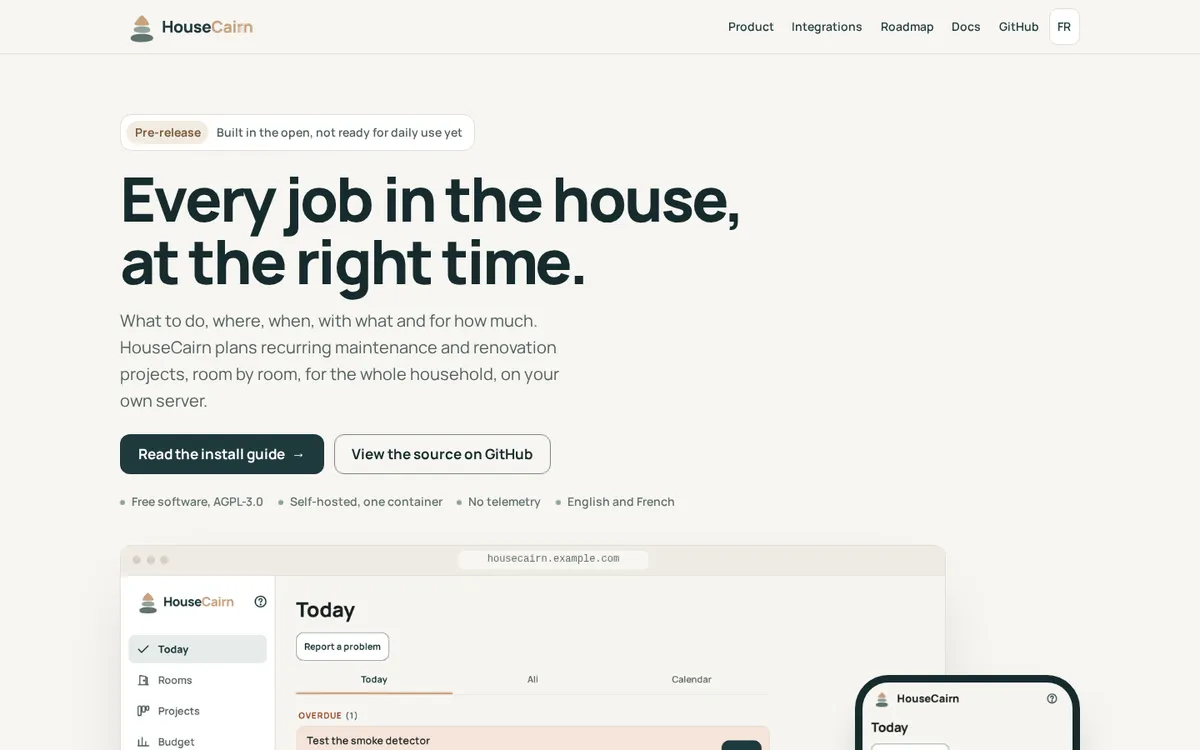
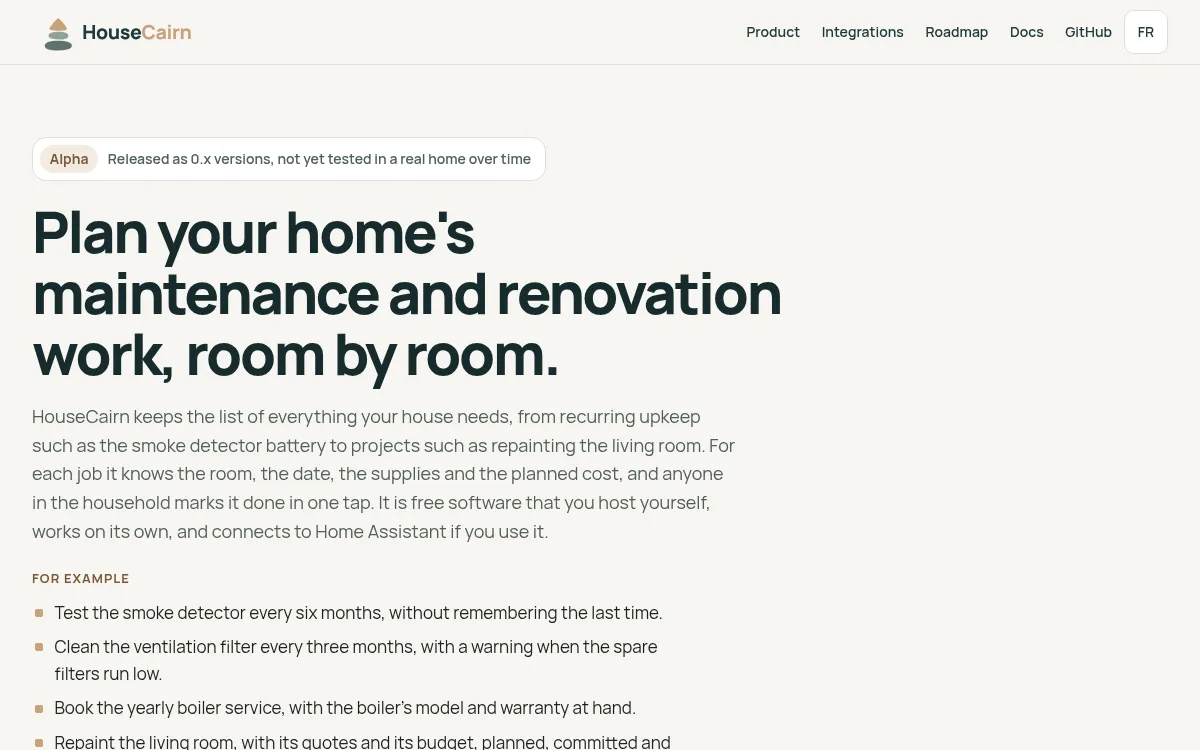
feat: say what HouseCairn is for first, with examples; SEO tags and social images (#15)
## Content

The home page now says what HouseCairn is for before anything technical,
in the words
of the reference message (`docs/developer/message.md` of the
application, proposed in
HouseCairn/housecairn#146):

- **First section**: the H1 is the headline ("Plan your home's
maintenance and
renovation work, room by room." / « Planifiez l'entretien et les travaux
de votre
maison, pièce par pièce. »), the lead is the three-sentence paragraph,
then a "For
example" list of four everyday jobs (smoke detector, ventilation filter,
boiler
service, repainting the living room). The buttons and the key facts
(licence, one
  container) come after. The H1 is smaller so the longer sentence fits.
- **Titles and descriptions**: new title and `meta description` for the
home page,
  in English and French; the five pages keep unique titles.
- **State corrected**: the site said "No version has been released yet"
and "not yet
released" for Home Assistant, while 0.x versions are published. It now
says alpha:
  0.x versions, what is stored can still change, keep a backup.
- **Social cards**: new Open Graph images (1200 x 630) with the
headline, generated
from the logo kit by `scripts/og.mjs`; explicit `twitter:title`,
`description`,
`image` and `image:alt`. `og.mjs` read `@fontsource/manrope`, which is
not a
dependency: it now also takes `OG_FONT_DIR`, a folder of Manrope TTF
files (used
  here: `assets/fonts/` of housecairn-mobile). No dependency added.
[…]

diff --git a/src/i18n/ui.ts b/src/i18n/ui.ts
@@ -45,6 +45,8 @@ export interface Dict {
     statusText: string;
     h1: string;
     lead: string;
+    examplesLabel: string;
+    examples: string[];
     ctaInstall: string;
     ctaSource: string;
     factsLabel: string;
@@ -82,14 +84,21 @@ export const ui: Record<Lang, Dict> = {
     switchShort: "FR",
     switchAria: "Lire cette page en français",
     home: {
-      title: "HouseCairn: home maintenance and renovation, self-hosted",
+      title: "HouseCairn: plan your home's maintenance and renovation work",
       description:
-        "HouseCairn is a free, self-hosted web app that plans recurring maintenance and renovation projects, room by room, for the whole household: what to do, where, when, with what and for how much.",
-      statusTag: "Pre-release",
-      statusText: "Built in the open, not ready for daily use yet",
-      h1: "Every job in the house, at the right time.",
+        "Plan your home's maintenance and renovation work, room by room: what to do, where, when, with what and for how much. Free, self-hosted, works with Home Assistant.",
+      statusTag: "Alpha",
+      statusText: "Released as 0.x versions, not yet tested in a real home over time",
+      h1: "Plan your home's maintenance and renovation work, room by room.",
       lead:
-        "What to do, where, when, with what and for how much. HouseCairn plans recurring maintenance and renovation projects, room by room, for the whole household, on your own server.",
+        "HouseCairn keeps the list of everything your house needs, from recurring upkeep such as the smoke detector battery to projects such as repainting the living room. For each job it knows the room, the date, the supplies and the planned cost, and anyone in the household marks it done in one tap. It is free software that you host yourself, works on its own, and connects to Home Assistant if you use it.",
+      examplesLabel: "For example",
+      examples: [
+        "Test the smoke detector every six months, without remembering the last time.",
+        "Clean the ventilation filter every three months, with a warning when the spare filters run low.",
+        "Book the yearly boiler service, with the boiler's model and warranty at hand.",
+        "Repaint the living room, with its quotes and its budget, planned, committed and paid.",
+      ],
       ctaInstall: "Read the install guide",
       ctaSource: "View the source on GitHub",
       factsLabel: "Key facts",
@@ -130,7 +139,7 @@ export const ui: Record<Lang, Dict> = {
           { title: "Sign-in", text: "Passkeys, authenticator app, recovery codes and OpenID Connect single sign-on." },
           { title: "Built for the phone", text: "Bottom navigation and large touch targets; the same app on a computer." },
         ],
-        note: "These features are in the main branch. No version has been released yet.",
+        note: "These features are on the main branch. Released versions are alpha.",
       },
       integrations: {
         eyebrow: "Integrations",
@@ -143,7 +152,7 @@ export const ui: Record<Lang, Dict> = {
             flowLabel: "Home Assistant calls HouseCairn",
             text: "An app runs HouseCairn inside Home Assistant (Ingress). A HACS integration shows tasks as sensors and as a to-do list where you mark them done, with a HouseCairn token limited to the homes you choose. HouseCairn never holds a Home Assistant token.",
             state: "ok",
-            pill: "Available · not yet released",
+            pill: "Available · alpha",
             links: [
               { href: LINKS.haApp, label: "The app" },
               { href: LINKS.haIntegration, label: "The integration" },
@@ -185,7 +194,7 @@ export const ui: Record<Lang, Dict> = {
         intro: "No dates are promised: each step is done when it is ready.",
         states: { done: "Done", now: "In progress", next: "Next" },
         honestStrong: "Not ready for real use yet.",
-        honest: "No version has been released yet, and until the first one anything can still change. The edge image follows the main branch and is for testing only.",
+        honest: "Versions 0.x are alpha: what HouseCairn stores can still change between them, so keep a backup. The edge image follows the main branch and is for testing only.",
         roadmapLink: "Read the roadmap",
       },
       open: {
@@ -236,14 +245,21 @@ export const ui: Record<Lang, Dict> = {
     switchShort: "EN",
     switchAria: "Read this page in English",
     home: {
-      title: "HouseCairn : entretien et travaux de la maison, auto-hébergé",
+      title: "HouseCairn : planifiez l’entretien et les travaux de votre maison",
       description:
-        "HouseCairn est une application web libre et auto-hébergée qui planifie l’entretien récurrent et les projets de travaux, pièce par pièce, pour tout le foyer : quoi faire, où, quand, avec quoi et pour combien.",
-      statusTag: "Préversion",
-      statusText: "Développé au grand jour, pas encore prêt pour un usage quotidien",
-      h1: "Chaque chose à faire dans la maison, au bon moment.",
+        "Planifiez l’entretien et les travaux de votre maison, pièce par pièce : quoi faire, où, quand, avec quoi et pour combien. Libre, auto-hébergé, compatible Home Assistant.",
+      statusTag: "Alpha",
+      statusText: "Publié en versions 0.x, pas encore éprouvé dans une vraie maison",
+      h1: "Planifiez l’entretien et les travaux de votre maison, pièce par pièce.",
       lead:
-        "Quoi faire, où, quand, avec quoi et pour combien. HouseCairn planifie l’entretien récurrent et les projets de travaux, pièce par pièce, pour tout le foyer, sur votre propre serveur.",
+        "HouseCairn tient la liste de tout ce dont votre maison a besoin, de l’entretien récurrent comme la pile du détecteur de fumée aux projets comme repeindre le salon. Pour chaque tâche, il connaît la pièce, la date, le matériel et le coût prévu, et chaque membre du foyer la coche en un geste. C’est un logiciel libre que vous hébergez vous-même, qui fonctionne seul et se relie à Home Assistant si vous l’utilisez.",
+      examplesLabel: "Par exemple",
+      examples: [
+        "Tester le détecteur de fumée tous les six mois, sans retenir la dernière fois.",
+        "Nettoyer le filtre de la VMC tous les trois mois, avec une alerte quand les filtres de rechange viennent à manquer.",
+        "Prévoir l’entretien annuel de la chaudière, avec son modèle et sa garantie sous la main.",
+        "Repeindre le salon, avec ses devis et son budget, prévu, engagé et payé.",
+      ],
       ctaInstall: "Lire le guide d’installation",
       ctaSource: "Voir le code sur GitHub",
       factsLabel: "En bref",
@@ -284,7 +300,7 @@ export const ui: Record<Lang, Dict> = {
           { title: "Connexion", text: "Clés d’accès, application d’authentification, codes de récupération et authentification unique OpenID Connect." },
           { title: "Pensée pour le téléphone", text: "Navigation en bas et grandes zones tactiles ; la même application sur ordinateur." },
         ],
-        note: "Ces fonctions sont dans la branche principale. Aucune version n’est encore publiée.",
+        note: "Ces fonctions sont dans la branche principale. Les versions publiées sont en alpha.",
       },
       integrations: {
         eyebrow: "Intégrations",
@@ -297,7 +313,7 @@ export const ui: Record<Lang, Dict> = {
             flowLabel: "Home Assistant appelle HouseCairn",
             text: "Une application fait tourner HouseCairn dans Home Assistant (Ingress). Une intégration HACS affiche les tâches en capteurs et en liste où on les coche, avec un jeton HouseCairn limité aux logements choisis. HouseCairn ne détient jamais de jeton Home Assistant.",
             state: "ok",
-            pill: "Disponible · pas encore publiée",
+            pill: "Disponible · alpha",
             links: [
               { href: LINKS.haApp, label: "L’application" },
               { href: LINKS.haIntegration, label: "L’intégration" },
@@ -339,7 +355,7 @@ export const ui: Record<Lang, Dict> = {
         intro: "Aucune date n’est promise : chaque étape est terminée quand elle est prête.",
         states: { done: "Fait", now: "En cours", next: "À venir" },
         honestStrong: "Pas encore prêt pour un usage réel.",
-        honest: "Aucune version n’est encore publiée, et jusqu’à la première, tout peut encore changer. L’image edge suit la branche principale et ne sert qu’aux tests.",
+        honest: "Les versions 0.x sont en alpha : ce que HouseCairn enregistre peut encore changer d’une version à l’autre, gardez donc une sauvegarde. L’image edge suit la branche principale et ne sert qu’aux tests.",
         roadmapLink: "Lire la feuille de route",
       },
       open: {

diff --git a/src/styles/global.css b/src/styles/global.css
@@ -82,10 +82,20 @@ a { color: inherit; }
   border-radius: var(--radius-pill); padding: .15rem .6rem; font-weight: 700;
 }
 .hero h1 {
-  margin-top: 1.25rem; font-size: clamp(2.4rem, 7.4vw, 4.6rem); line-height: 1.02;
+  margin-top: 1.25rem; font-size: clamp(2rem, 5.6vw, 3.6rem); line-height: 1.06;
   letter-spacing: -.04em; font-weight: 800;
 }
-.hero .lead { margin-top: 1.1rem; font-size: clamp(1.08rem, 1.6vw, 1.25rem); color: var(--color-text-muted); max-width: 38rem; }
+.hero .lead { margin-top: 1.1rem; font-size: clamp(1.05rem, 1.5vw, 1.18rem); color: var(--color-text-muted); max-width: 44rem; }
+.examples-h {
+  margin-top: 1.4rem; font-size: var(--font-size-xs); font-weight: 700; letter-spacing: var(--font-tracking-caps);
+  text-transform: uppercase; color: var(--color-text-sand);
+}
+.examples { margin: .6rem 0 0; padding: 0; list-style: none; max-width: 40rem; display: grid; gap: .45rem; }
+.examples li { position: relative; padding-left: 1.4rem; color: var(--color-text); }
+.examples li::before {
+  content: ""; position: absolute; left: .2rem; top: .62em; width: 8px; height: 8px; border-radius: 2px;
+  background: var(--color-sand);
+}
 .cta { display: flex; flex-wrap: wrap; gap: .75rem; margin-top: 1.5rem; }
 .facts {
   display: flex; flex-wrap: wrap; gap: .35rem 1.1rem; margin: 1.4rem 0 0; padding: 0; list-style: none;
@@ -257,7 +267,7 @@ a.more { display: inline-flex; min-height: 44px; align-items: center; font-weigh
 }
 @media (min-width: 64rem) {
   .hero { padding-top: 4.5rem; }
-  .hero h1 { max-width: 15ch; }
+  .hero h1 { max-width: 22ch; }
   .stage { justify-items: stretch; }
   .stage .browser { display: block; width: 86%; justify-self: start; }
   .hero .phone { position: absolute; right: 0; bottom: -4rem; width: 270px; margin: 0; }

diff --git a/src/i18n/jsonld.ts b/src/i18n/jsonld.ts
@@ -13,6 +13,7 @@ export function softwareJsonLd(lang: Lang, site: URL) {
     operatingSystem: "Linux (Docker)",
     isAccessibleForFree: true,
     license: LINKS.license,
+    installUrl: lang === "fr" ? LINKS.installFr : LINKS.install,
     sameAs: [LINKS.source],
     image: new URL(`/og/og-${lang}.png`, site).href,
     author: { "@type": "Person", name: "Robvred" },

diff --git a/README.md b/README.md
@@ -4,14 +4,44 @@
 [![License: AGPL-3.0-only](https://img.shields.io/badge/license-AGPL--3.0--only-blue.svg)](LICENSE)
 [![Site](https://img.shields.io/badge/site-housecairn.app-41BDF5)](https://housecairn.app)
 
-The public website of [HouseCairn](https://github.com/HouseCairn/housecairn), a free,
-self-hosted web app for home maintenance and renovation. English at `/`, French at `/fr/`.
+**Plan your home's maintenance and renovation work, room by room.**
 
-![The home page of housecairn.app on a desktop browser: the title "Every job in the house, at the right time.", two buttons, and real screenshots of the Today screen in a browser and on a phone.](docs/screenshot.webp)
+[HouseCairn](https://github.com/HouseCairn/housecairn) keeps the list of everything your house needs, from recurring upkeep
+such as the smoke detector battery to projects such as repainting the living
+room. For each job it knows the room, the date, the supplies and the planned
+cost, and anyone in the household marks it done in one tap. It is free software
+that you host yourself, works on its own, and connects to Home Assistant if you
+use it.
+
+This repository is the public website of HouseCairn, <https://housecairn.app>:
+English at `/`, French at `/fr/`.
+
+![The home page of housecairn.app on a desktop browser: the title "Plan your home's maintenance and renovation work, room by room.", the paragraph that says what HouseCairn does, and the first examples.](docs/screenshot.webp)
+
+For example:
+
+- test the smoke detector every six months, without remembering the last time;
+- clean the ventilation filter every three months, with a warning when the
+  spare filters run low;
+- book the yearly boiler service, with the boiler's model and warranty at hand;
+- repaint the living room, with its quotes and its budget, planned, committed
+  and paid.
 
 Static site built with [Astro](https://astro.build). No JavaScript in the browser, no
 cookies, no analytics and no external resources: the Manrope font is self-hosted
 (one variable file, Latin subset).
+
+## The HouseCairn repositories
+
+- [housecairn](https://github.com/HouseCairn/housecairn): the web application, to install first.
+- [home-assistant-addons](https://github.com/HouseCairn/home-assistant-addons): HouseCairn as a Home Assistant app (add-on).
+- [home-assistant-housecairn](https://github.com/HouseCairn/home-assistant-housecairn): the Home Assistant integration (HACS).
+- [housecairn-mobile](https://github.com/HouseCairn/housecairn-mobile): the phone app for iOS and Android, in development, not on the stores yet.
+- [website](https://github.com/HouseCairn/website): the site <https://housecairn.app> (this repository).
+
+Website: <https://housecairn.app>. Documentation, in English and French:
+<https://docs.housecairn.app>.
+
 
 ## Build and preview
 
@@ -46,8 +76,11 @@ lighthouse` needs Chrome (found automatically, or set `CHROME_PATH`).
 
 - **Only what exists.** Every feature named on the site exists on the `main` branch of
   the application; check its code or documentation before adding one. Integrations carry
-  their real state (available, partial, planned). No version has been released yet: the
-  site says so.
+  their real state (available, partial, planned). Released versions are alpha: the site
+  says so.
+- **One message.** The headline, the paragraph and the examples of the first section are
+  those of the [message](https://docs.housecairn.app/developer/message/) of the
+  application's documentation; change them there first.
 - **Real screenshots only.** Nothing is drawn or simulated. Screenshots use the fictional
   demo home of the application, in the page's language.
 - **Same colours as the application.** `npm run tokens` writes `src/styles/tokens.css` from
@@ -74,8 +107,8 @@ lighthouse` needs Chrome (found automatically, or set `CHROME_PATH`).
 - `npm run check`: no inline `<style>`, no `style=` attribute, no script other than the
   JSON-LD block, no `data:` URI, no resource from another site, no JavaScript file, and the
   budget of the home page (HTML 20 KB and CSS 12 KB compressed, one font file of 30 KB at most);
-- `npm run lighthouse`: at least 95 in every category, mobile and desktop, English and
-  French, at most 200 KB transferred on mobile and no JavaScript.
+- `npm run lighthouse`: 100 in SEO and accessibility, at least 95 in the other categories,
+  mobile and desktop, English and French, at most 200 KB transferred on mobile and no JavaScript.
 
 ## Content Security Policy
 
